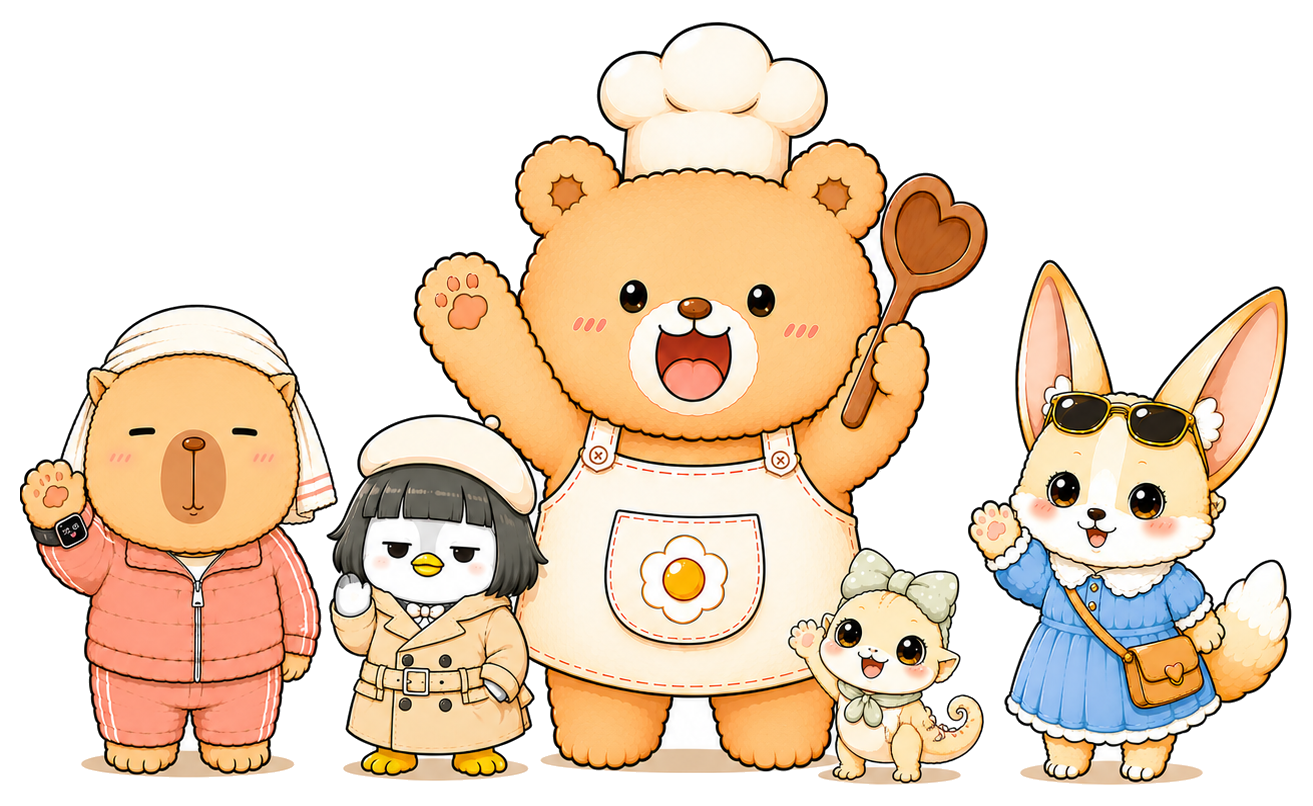
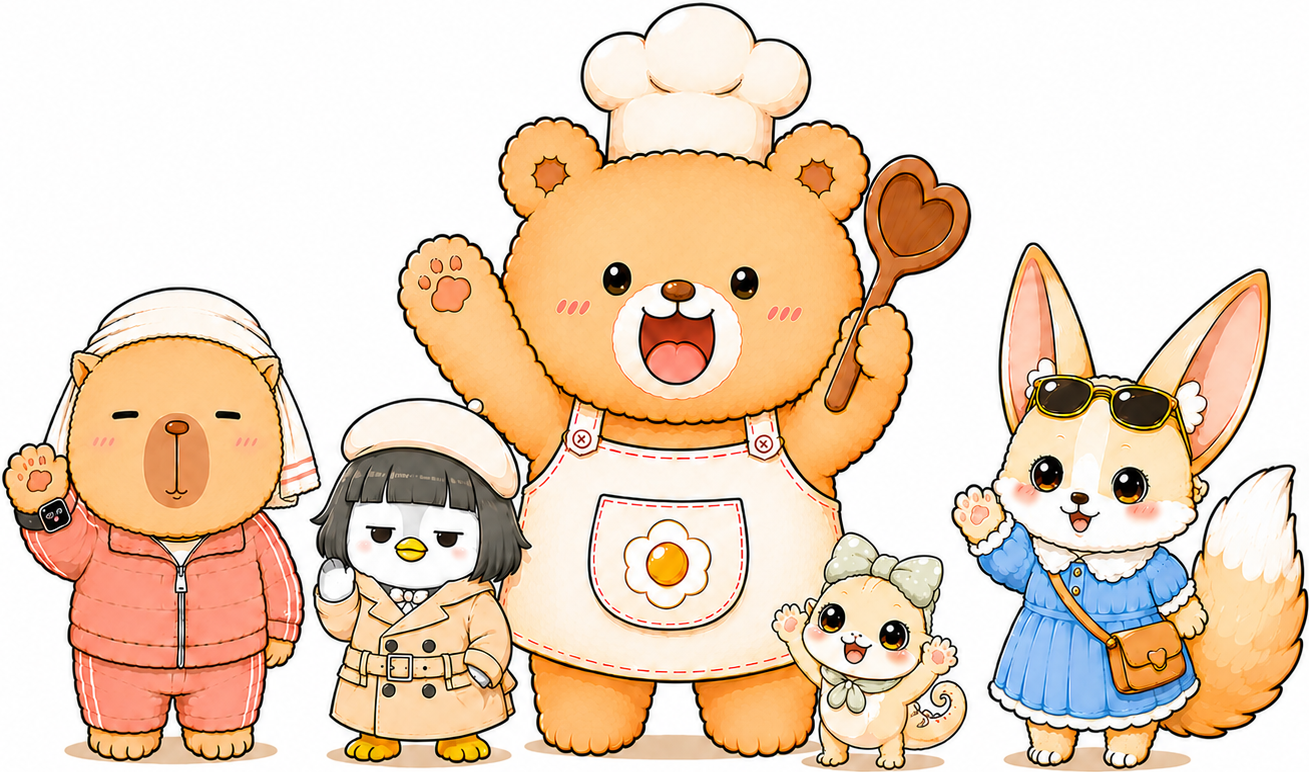
v10.24 — 새 5인 라인업 + 막대 잔상 + 안내코치 셋
📌 창업자 폰 제보 세 건을 한 판에

🖼 온보딩 5인 라인업을 최신 카롱·뾰미로 교체
   · 옛 카롱(머리띠·둥근 귀) → 새 카롱(온천 수건·살구 트레이닝복)
   · 뾰미 새 꼬리(끝 흰색) 반영 · 옛 컷은 지우지 않고 백업 폴더로 보존
   · 온보딩 10장 전수 검수 통과

📜 「모아보기 막대가 다른 화면까지 따라온다」
   창업자: "모아보기 바가 다른데도 침범중야" (한끼 일기 달력 위를 가로질렀다)
   · 뿌리 = ScrollHint 가 다시 잴 신호가 셋뿐이었다 — dep(탭·스택) · 스크롤 · body 직계 자식.
     「모아보기 ↔ 한끼 일기」·「장보기 ↔ 냉장고」는 한 화면 안에서 갈려 어디에도 안 걸렸고,
     마지막에 잰 막대가 fixed 로 남아 다른 화면을 가로질렀다.
   · 화면 속(subtree)까지 본다 · 가로 막대도 맨 위 화면 안에서만 찾는다
   · ToTop 도 같은 구멍이라 같이 막았다

🧭 안내코치 셋
   창업자: "안내코치 레꾸자랑 이렇게돼" / "한끼일기는 눌러도 안내코치가 없네"
   · 레꾸자랑 코치가 레시피 격자를 통째로 가리켜 링 높이 4807px(화면 891)
     → 화면이 안 어두워지고 말풍선이 y −2178 로 사라져 금색 테두리만 남았다
     → 첫 카드 하나를 가리킨다 (링 219px · 말풍선 화면 안)
   · CoachMarks 가 대상을 보이는 부분으로 잘라 잰다 + 위아래가 다 좁으면 말풍선을 화면 아래에
     (어느 화면에서 무엇을 가리켜도 안 깨지는 안전장치)
   · 「일기」 탭이 레시피 탭과 코치 키를 같이 써서, 레시피를 먼저 본 사람은 영영 안 떴다
     → 일기 전용 키·단계 신설(요리 달력 · 오늘 일기 쓰기)

🧪 재현판 둘 신설 — _repro-막대잔상-0810 · _repro-안내코치-0810
   둘 다 규칙 12로 옛 코드에서 진짜 걸리는 것 확인(막대 3칸 · 코치 3칸)
   빌드·스모크·온보딩 10장 전수 전부 통과

Claude-Session: https://claude.ai/code/session_01FxApkQkfqgWWNZhgiynRFA

diff --git a/hankki/src/screens/MyRecipesScreen.jsx b/hankki/src/screens/MyRecipesScreen.jsx
@@ -24,6 +24,17 @@ const MYRECIPES_COACH_STEPS = [
   { sel: '[data-coach="log"]', label: '한끼 일기', desc: '요리하고 "만들었어요!" 한 번이면 별점·사진·팁이 쌓여요 · 다음엔 "그때 그 맛" 그대로 재현!' },
 ]
 
+// 📔 「일기」 탭 코치 — ⛔예전엔 «없었다.**
+//   하단바에서 「레시피」와 「일기」가 따로 선 탭인데 **코치 키를 같이 썼다**(`COACH.myrecipes`).
+//   레시피 탭을 먼저 본 사람은 일기 탭에서 안내가 영영 안 떴고, 뜬다 해도 내용이
+//   「모아보기·보기 바꾸기」라 **달력도 일기 쓰기도 한 줄도 안 알려줬다.**
+//   (창업자 2026-08-10 *"한끼일기는 눌러도안내코치가 없네"*)
+const DIARY_COACH_KEY = COACH.diary
+const DIARY_COACH_STEPS = [
+  { sel: '[data-coach="cal"]', label: '요리 달력', desc: '요리한 날엔 그날 만든 음식이 떠요 · 날짜를 누르면 그날 일기로 바로 가요' },
+  { sel: '[data-coach="diary-write"]', label: '오늘 일기 쓰기', desc: '속지를 고르고 · 일기를 쓰고 · 스티커로 예쁘게 꾸며요' },
+]
+
 // 카테고리와 연결된 기본 폴더 — 삭제 불가(사용자가 만든 폴더만 지울 수 있게)
 const DEFAULT_FOLDERS = new Set(['한식', '양식', '일식', '간식', '아시안'])
 
@@ -137,6 +148,7 @@ export default function MyRecipesScreen({ initView = 'grid' }) {
   const nav = useNav()
   const [view, setView] = useState(initView) // grid | log | folders
   const [coach, setCoach] = useState(() => needsCoach(MYRECIPES_COACH_KEY))
+  const [dCoach, setDCoach] = useState(() => needsCoach(DIARY_COACH_KEY)) // 📔 일기 탭 전용
   const [folder, setFolder] = useState('전체')
   // 모아보기 크기 — 'big'(2열·이름 크게) | 'small'(3열 그리드). 선택은 기억된다.
   const [gridSize, setGridSizeState] = useState(() => {
@@ -332,7 +344,9 @@ export default function MyRecipesScreen({ initView = 'grid' }) {
                  그래서 만든 사람(창업자)조차 안 썼다 — 이 탭이 죽은 이유의 하나가 **기능이 모자란 게
                  아니라 자리를 잘못 준 것**이었다. 접기 버튼도 같이 없앴다(가릴 이유가 없어졌다). */}
           {(entries.length > 0 || diaryDays.size > 0) && (
-            <CookCalendar entries={entries} diaryDays={diaryDays} selected={dayFilter} onSelect={setDayFilter} onOpenDay={(k) => nav.push({ name: 'diary', day: k })} iconFor={iconFor} />
+            <div data-coach="cal">
+              <CookCalendar entries={entries} diaryDays={diaryDays} selected={dayFilter} onSelect={setDayFilter} onOpenDay={(k) => nav.push({ name: 'diary', day: k })} iconFor={iconFor} />
+            </div>
           )}
 
           {/* 📔 다이어리 쓰기 — 창업자 2026-08-06 *"따로 아이콘을 하나 파서 다이어리 쓰기
@@ -342,6 +356,7 @@ export default function MyRecipesScreen({ initView = 'grid' }) {
                  날짜를 골라 두고 누르면 그날, 안 고르면 오늘. (새 UI 0개) */}
           <button
             className="press"
+            data-coach="diary-write"
             onClick={() => nav.push({ name: 'diary', day: dayFilter || dayKey(Date.now()) })}
             style={{ width: '100%', display: 'inline-flex', alignItems: 'center', justifyContent: 'center', gap: 7, marginBottom: 12, padding: '11px 0', borderRadius: 12, background: 'var(--brown)', color: '#fff', fontSize: 13.5, fontWeight: 800, border: 'none' }}
           >
@@ -629,7 +644,10 @@ export default function MyRecipesScreen({ initView = 'grid' }) {
       {/* ⛔ 「요리 기록 남기기」 시트는 2026-08-07 에 여기서 뺐다 —
              「한끼 일기」 앨범을 누르면 «그날 일기»로 간다(위 `album-tile` 참고).
              기록 고치기와 「한마디 청하기」는 **레시피 상세**에 그대로 있다. */}
-      {coach && <CoachMarks storageKey={MYRECIPES_COACH_KEY} steps={MYRECIPES_COACH_STEPS} onDone={() => setCoach(false)} />}
+      {/* ⭐ 보고 있는 것에 맞는 코치만 띄운다 — 일기 화면에서 「보기 바꾸기」를 안내하면 앞뒤가 안 맞고,
+          그 단추는 일기 화면에 «있지도 않다»(코치가 그 단계를 건너뛴다). */}
+      {coach && view !== 'log' && <CoachMarks storageKey={MYRECIPES_COACH_KEY} steps={MYRECIPES_COACH_STEPS} onDone={() => setCoach(false)} />}
+      {dCoach && view === 'log' && <CoachMarks storageKey={DIARY_COACH_KEY} steps={DIARY_COACH_STEPS} onDone={() => setDCoach(false)} />}
     </>
   )
 }

diff --git a/hankki/src/App.jsx b/hankki/src/App.jsx
@@ -470,11 +470,13 @@ function ScrollHint({ dep }) {
       //    꾸미기 판은 자기 서랍 막대를 따로 그린다(`DecorEditor` 의 `VHint`).
       // ⭐ 꾸미기 판이 열렸으면 «판 안»의 가로 줄만 본다(판이 화면을 덮는다).
       const 판 = document.querySelector('.decor-editor')
-      setHbars(가로재기(판 || document.querySelector('.app-frame') || document.body))
-      if (판) { setBar(null); return }
+      if (판) { setHbars(가로재기(판)); setBar(null); return }
       const list = document.querySelectorAll('.app-frame .screen')
       const el = list[list.length - 1] // 맨 위 화면 = DOM 에서 마지막
-      if (!el) { setBar(null); return }
+      if (!el) { setHbars([]); setBar(null); return }
+      // ⭐ 가로 막대도 «맨 위 화면 안»에서만 찾는다 — `.app-frame` 을 통째로 훑으면
+      //    쌓인 화면 «뒤»에 깔린 줄까지 잡아 남의 화면에 막대가 뜬다(세로 막대와 같은 기준).
+      setHbars(가로재기(el))
       const { scrollHeight: sh, clientHeight: ch, scrollTop: st } = el
       if (sh <= ch + 8) { setBar(null); return }
       const r = el.getBoundingClientRect()
@@ -490,6 +492,16 @@ function ScrollHint({ dep }) {
     //    막대가 판 위에 남지 않는다(`dep` 은 탭·스택만 보므로 이건 못 잡는다).
     const mo = new MutationObserver(onScroll)
     mo.observe(document.body, { childList: true })
+    // ⛔⛔ **「모아보기 ↔ 한끼 일기」·「장보기 ↔ 냉장고」는 «한 화면 안»에서 갈린다** —
+    //    탭도 스택도 안 바뀌고(`dep` 그대로) `body` 직계 자식도 안 바뀐다.
+    //    그래서 다시 잴 신호가 «하나도» 없었고, 마지막에 잰 막대가 `fixed` 로 그대로 남아
+    //    **다른 화면을 가로질렀다**(창업자 2026-08-10 *"모아보기 바가 다른데도 침범중야"* —
+    //    폰 캡처에서 「한끼 일기」 달력 위를 지나갔다).
+    //    📌 규칙 18 — 「막대가 틀린 자리에 있다」가 아니라 **「다시 잰 적이 없다」**였다.
+    // ⭐ 그래서 화면 «속»까지 본다. `characterData` 는 안 본다(글씨만 바뀌는 건 자리와 무관).
+    //    재는 건 rAF 로 묶어 한 프레임에 한 번뿐이다.
+    const frame = document.querySelector('.app-frame')
+    if (frame) mo.observe(frame, { childList: true, subtree: true })
     // ⚠ 화면을 열자마자 재면 내용이 아직 없어 «안 넘침»으로 나온다 → 몇 번 더 잰다.
     const timers = [0, 140, 420, 900].map((ms) => setTimeout(measure, ms))
     return () => {
@@ -565,6 +577,10 @@ function ToTop({ dep, hasNav }) {
     window.addEventListener('resize', onScroll)
     const mo = new MutationObserver(onScroll) // 꾸미기 판·온보딩은 body 직계로 뜬다
     mo.observe(document.body, { childList: true })
+    // ⭐ `ScrollHint` 와 같은 구멍 — 「모아보기 ↔ 한끼 일기」처럼 «한 화면 안»에서 갈리면
+    //    긴 화면에서 뜬 단추가 짧은 화면으로 옮겨도 그대로 남는다. 화면 속까지 본다.
+    const frame = document.querySelector('.app-frame')
+    if (frame) mo.observe(frame, { childList: true, subtree: true })
     const timers = [0, 140, 420].map((ms) => setTimeout(measure, ms))
     return () => {
       document.removeEventListener('scroll', onScroll, true)

diff --git a/hankki/src/components/CoachMarks.jsx b/hankki/src/components/CoachMarks.jsx
@@ -26,7 +26,19 @@ export default function CoachMarks({ storageKey, steps, onDone }) {
       // 대상이 화면 밖(아래쪽 버튼 등)이면 보이게 스크롤한 뒤 위치를 잰다.
       if (el) el.scrollIntoView({ block: 'center', behavior: 'auto' })
       const r = el?.getBoundingClientRect()
-      if (r && r.width > 0) setRect({ top: r.top, left: r.left, width: r.width, height: r.height })
+      // ⛔⛔ **대상이 «화면보다 클 수» 있다** (창업자 폰 2026-08-10 *"안내코치 레꾸자랑 이렇게돼"*)
+      //    레꾸자랑 코치가 레시피 격자를 «통째로» 가리켜 실측 **링 높이 4807px · 화면 891px** 이었다.
+      //    그러면 ⒜구멍 뚫는 그림자(`0 0 0 9999px`)가 통째로 화면 «밖»으로 밀려 **화면이 안 어두워지고**
+      //         ⒝말풍선이 **y −2178** 로 화면 위로 사라진다 → 금색 테두리만 남는다.
+      //    ✅ **보이는 부분으로 잘라서** 잰다 — 어느 화면에서 무엇을 가리켜도 링이 화면 안에 남는다.
+      //    📌 규칙 18 — 「코치가 이상하다」가 아니라 «가리키는 것이 화면보다 크다»였다.
+      if (r && r.width > 0) {
+        const top = Math.max(10, Math.min(r.top, window.innerHeight - 60))
+        const bottom = Math.min(window.innerHeight - 10, Math.max(r.bottom, top + 40))
+        const left = Math.max(6, Math.min(r.left, window.innerWidth - 60))
+        const right = Math.min(window.innerWidth - 6, Math.max(r.right, left + 40))
+        setRect({ top, left, width: right - left, height: bottom - top })
+      }
       else if (tries++ < 8) t = setTimeout(measure, 120)
       else next() // 대상이 없으면(화면 구성이 다르면) 그 단계는 건너뛴다
     }
@@ -39,7 +51,16 @@ export default function CoachMarks({ storageKey, steps, onDone }) {
   if (!rect) return null
   const s = steps[i]
   const pad = 7 // 하이라이트 여유
+  // 💬 말풍선 자리 — 아래에 자리가 있으면 아래, 없으면 위. **둘 다 좁으면 화면 아래에 붙인다.**
+  //    ⛔ 예전엔 「아래가 안 되면 무조건 위」라, 대상이 화면을 거의 다 채우면
+  //       위쪽 여유가 음수가 되어 **말풍선이 화면 밖으로 나갔다**(위 clamp 와 한 사고다).
   const below = rect.top + rect.height + 150 < window.innerHeight // 말풍선을 아래에 둘 수 있나
+  const above = !below && rect.top - 150 > 0                       // 위에는 둘 수 있나
+  const 자리 = below
+    ? { top: rect.top + rect.height + pad + 16 }
+    : above
+      ? { bottom: window.innerHeight - rect.top + pad + 16 }
+      : { bottom: 26 }
   return (
     <Portal>
       <div
@@ -77,7 +98,7 @@ export default function CoachMarks({ storageKey, steps, onDone }) {
           style={{
             position: 'absolute',
             left: 18, right: 18,
-            ...(below ? { top: rect.top + rect.height + pad + 16 } : { bottom: window.innerHeight - rect.top + pad + 16 }),
+            ...자리,
             display: 'flex', justifyContent: 'center', pointerEvents: 'none',
           }}
         >

diff --git a/hankki/src/screens/BragScreen.jsx b/hankki/src/screens/BragScreen.jsx
@@ -181,9 +181,14 @@ export default function BragScreen() {
               : '아직 레시피가 없어요.\n가져오기로 담으면 여기서 예쁜 카드로 자랑할 수 있어요'}
           </div>
         ) : (
-          <div className="grid2" data-coach="brag-list">
-            {list.map((r) => (
-              <div key={r.id} className="grid-card">
+          <div className="grid2">
+            {/* ⛔⛔ `data-coach` 를 **격자 통째**에 붙였다가 안내코치가 깨졌다 (창업자 폰 2026-08-10)
+                — 레시피가 217개면 이 div 높이가 **4807px** 이라 코치가 화면을 못 어둡게 하고
+                  말풍선이 y −2178 로 사라져 **금색 테두리만** 남았다.
+                ✅ 코치는 **첫 카드 하나**를 가리킨다 — 「레시피를 탭하세요」니까 가리킬 것도 카드다.
+                ⛔ 이 주석을 `) : (` 바로 뒤로 올리지 말 것 — 표현식 여는 자리라 빌드가 깨진다(실제로 깨뜨렸다). */}
+            {list.map((r, i) => (
+              <div key={r.id} className="grid-card" {...(i === 0 ? { 'data-coach': 'brag-list' } : {})}>
                 <button className="press" style={{ textAlign: 'left', width: '100%' }} onClick={() => setPick(r)} aria-label={`${r.title} 자랑하기`}>
                   <Thumb recipe={r} ratio="1/1" radius={16} showDecor />
                   <div className="name">{r.title}</div>

diff --git a/hankki/src/coach.js b/hankki/src/coach.js
@@ -21,6 +21,10 @@ const NS = 'hankki:coach:'
 export const COACH = {
   home: `${NS}home3`,          // v8.60 home → home2 → v10.05 home3(한끼 일기 단계 추가)
   myrecipes: `${NS}myrecipes`,
+  // 📔 「일기」 탭은 하단바에서 «따로 선 탭»인데 코치가 `myrecipes` 와 한 키를 썼다 →
+  //    레시피 탭을 먼저 본 사람은 일기 탭에서 **영영 안내가 안 떴다**
+  //    (창업자 2026-08-10 *"한끼일기는 눌러도안내코치가 없네"*). 키를 갈랐다.
+  diary: `${NS}diary`,
   detail: `${NS}detail`,
   shop: `${NS}shop`,
   brag: `${NS}brag`,

diff --git a/hankki/src/version.js b/hankki/src/version.js
@@ -1,7 +1,7 @@
 // 앱 버전 — 배포마다 숫자를 올린다. 설정 화면 맨 아래에 표시되고,
 // 새 버전으로 업데이트되면(서비스워커 교체 → 새로고침) 안내 토스트를 띄우는 기준이 된다.
 // 사용자가 "지금 몇 버전이야?"를 바로 확인해 알려줄 수 있어, 캐시 문제 진단에도 쓴다.
-export const APP_VERSION = 'v10.23'
+export const APP_VERSION = 'v10.24'
 export const APP_TAGLINE = '꼬르곰·펭펭과 레꾸해요'
 
 // 익명 의견 보내기 채널 — 로그인 없이 익명으로 받는 구글 폼(또는 Tally) 링크.

diff --git a/hankki/docs/자산현황-자동집계.md b/hankki/docs/자산현황-자동집계.md
@@ -270,6 +270,7 @@
 | 7 | `음식-창업자-2608b` |
 | 5 | `여름프레임-큰컷-2607` |
 | 4 | `추석한복펭펭-새시트-2026-08-10` |
+| 3 | `_옛컷-백업-2026-08-10-뾰미카롱` |
 | 2 | `_옛컷-백업-2026-08-02` |
 | 2 | `_옛컷-백업-2026-08-04-로고` |
 | 2 | `로고-곰마크-시안-2507` |
